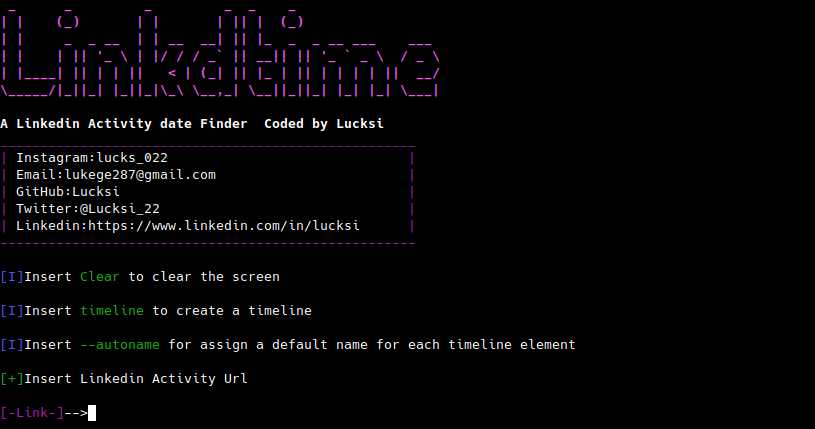
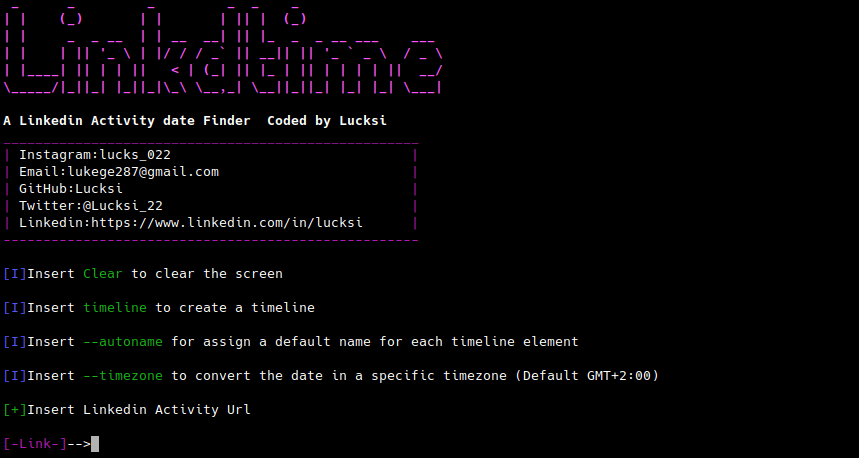
Added custom timezone option

diff --git a/Core/Modules/Timeline.py b/Core/Modules/Timeline.py
@@ -23,10 +23,10 @@ class CREATE:
         f.close()
 
     @staticmethod
-    def Write_Timeline(users,conversion,ordinated,types,titles,reader,timel_name,fixed_earliest,fixed_latest):
+    def Write_Timeline(users,conversion,ordinated,types,titles,reader,timel_name,fixed_earliest,fixed_latest,timezone):
         j = 1
         f = open(timel_name,"a")
-        f.write("Earliest Event: {} GMT+2 Latest Event: {} GMT+2\n\n".format(str(fixed_earliest),str(fixed_latest)))
+        f.write("Earliest Event: {} {} Latest Event: {} {}\n\n".format(str(fixed_earliest),timezone,str(fixed_latest),timezone))
         for element in ordinated:
             f.write("Number° {}\r\n".format(str(j)))
             orig_index = conversion.index(element)
@@ -35,16 +35,16 @@ class CREATE:
                 f.write("Author: {}\r\n".format(users[orig_index]))
             f.write("Type: {}\r\n".format(types[orig_index]))
             if types[orig_index] == "Profile-Picture" or type[orig_index] == "Company-Logo":
-                f.write("Added on date: {} GMT+2\r\n".format(element))
+                f.write("Added on date: {} {}\r\n".format(element,timezone))
             else:
-                f.write("Posted on date: {} GMT+2\r\n".format(element))
+                f.write("Posted on date: {} {}\r\n".format(element,timezone))
             f.write("Url: {}\r\n\n".format(reader[orig_index].lstrip().rstrip()))
             j = j + 1
         f.close()
         print(Colors.Color.GREEN + "[+]" + Colors.Color.WHITE + "Timeline Saved on: {}".format(Colors.Color.GREEN + str(timel_name)))
     
     @staticmethod
-    def Timeline(path,timel_name,auto):
+    def Timeline(path,timel_name,auto,timezone):
         timel_name = "Timelines/{}".format(timel_name)
         CREATE.Create_Timeline(timel_name)
         users = []
@@ -69,7 +69,7 @@ class CREATE:
                     title = "Element n°{}".format(t_i)
                     t_i = t_i + 1
                 titles.append(title)
-                Start.MAIN.Scan(element,"True",users,conversion,types)
+                Start.MAIN.Scan(element,"True",users,conversion,types,timezone)
                 sleep(1)
             fixed_earliest = min(conversion)
             fixed_latest = max(conversion)
@@ -80,7 +80,7 @@ class CREATE:
                 temp.remove(earliest)
             print(Colors.Color.BLUE + "\n[I]" + Colors.Color.WHITE + "Creating Timeline\n")
             sleep(2)
-            print(Colors.Color.GREEN + "[+]" + Colors.Color.WHITE + "Earliest Event: {} Latest Event: {} GMT+2\n".format(Colors.Color.GREEN + str(fixed_earliest) + " GMT+2" + Colors.Color.WHITE,Colors.Color.GREEN + str(fixed_latest)))
+            print(Colors.Color.GREEN + "[+]" + Colors.Color.WHITE + "Earliest Event: {} {}  Latest Event: {} {}\n".format(Colors.Color.GREEN + str(fixed_earliest), Colors.Color.WHITE + timezone + Colors.Color.WHITE,Colors.Color.GREEN + str(fixed_latest),Colors.Color.WHITE + timezone))
             j = 1
             for element in ordinated:
                 print(Colors.Color.BLUE + "[I]" + Colors.Color.WHITE + "Number° {}".format(Colors.Color.GREEN + str(j)))
@@ -90,11 +90,11 @@ class CREATE:
                     print(Colors.Color.GREEN + "[+]" + Colors.Color.WHITE + "Author: {}".format(Colors.Color.GREEN + users[orig_index]))
                 print(Colors.Color.GREEN + "[+]" + Colors.Color.WHITE +  "Type: {}".format(Colors.Color.GREEN + types[orig_index]))
                 if types[orig_index] == "Profile-Picture" or type[orig_index] == "Company-Logo":
-                    print(Colors.Color.GREEN + "[+]" + Colors.Color.WHITE + "Added on date: {} GMT+2".format(Colors.Color.GREEN + element))
+                    print(Colors.Color.GREEN + "[+]" + Colors.Color.WHITE + "Added on date: {} {}".format(Colors.Color.GREEN + element + Colors.Color.WHITE,timezone))
                 else:
-                    print(Colors.Color.GREEN + "[+]" + Colors.Color.WHITE + "Posted on date: {} GMT+2".format(Colors.Color.GREEN + element))
+                    print(Colors.Color.GREEN + "[+]" + Colors.Color.WHITE + "Posted on date: {} {}".format(Colors.Color.GREEN + element + Colors.Color.WHITE,timezone))
                 print(Colors.Color.GREEN + "[+]" + Colors.Color.WHITE + "Url: {}\n".format(Colors.Color.GREEN + reader[orig_index].lstrip().rstrip()))
                 j = j + 1
-            CREATE.Write_Timeline(users,conversion,ordinated,types,titles,reader,timel_name,fixed_earliest,fixed_latest)
+            CREATE.Write_Timeline(users,conversion,ordinated,types,titles,reader,timel_name,fixed_earliest,fixed_latest,timezone)
         else:
             print(Colors.Color.RED + "[!]" + Colors.Color.WHITE + "File: {} not found".format(Colors.Color.GREEN + path + Colors.Color.WHITE)) 

diff --git a/Core/Start.py b/Core/Start.py
@@ -14,7 +14,7 @@ from Core.Utils import Banner
 class MAIN:
 
     @staticmethod
-    def Scan(string,timeline,users,conversions,types):
+    def Scan(string,timeline,users,conversions,types,timezone):
         if string.startswith("https://www.linkedin.com") == False and string.startswith("https://media.licdn.com") == False:
             print(Colors.Color.RED + "\n[!]" + Colors.Color.WHITE + "Please insert a Linkedin link")
             MAIN.String(2)
@@ -44,17 +44,17 @@ class MAIN:
             try:
                 if param != "Image" and param != "Profile-Picture" and param != "Company-Logo":
                     formatted = Decimal.GET.Formatted(binary_string)
-                converted = Timestamp.GET.Date(formatted)
+                converted = Timestamp.GET.Date(formatted,timezone)
                 if timeline == "True":
                     users.append(user)
                     conversions.append(converted)
                     types.append(param)
                 if user != "" and param != "Image" and param != "Profile-Picture" and param != "Company-Logo":
-                    print(Colors.Color.PURPLE2 + "\n[v]" + Colors.Color.WHITE + "Linkedin {} Author: {} Posted on date: {} GMT+2".format(param,Colors.Color.GREEN + user + Colors.Color.WHITE,Colors.Color.GREEN + converted))
+                    print(Colors.Color.PURPLE2 + "\n[v]" + Colors.Color.WHITE + "Linkedin {} Author: {} Posted on date: {} {}".format(param,Colors.Color.GREEN + user + Colors.Color.WHITE,Colors.Color.GREEN + converted + Colors.Color.WHITE,timezone))
                 elif param == "Profile-Picture" or param == "Company-Logo":
-                    print(Colors.Color.PURPLE2 + "\n[v]" + Colors.Color.WHITE + "Linkedin {} Added on date: {} GMT+2".format(param,Colors.Color.GREEN + converted))
+                    print(Colors.Color.PURPLE2 + "\n[v]" + Colors.Color.WHITE + "Linkedin {} Added on date: {} {}".format(param,Colors.Color.GREEN + converted + Colors.Color.WHITE,timezone))
                 else:
-                    print(Colors.Color.PURPLE2 + "\n[v]" + Colors.Color.WHITE + "Linkedin {} Posted on date: {} GMT+2".format(param,Colors.Color.GREEN + converted))
+                    print(Colors.Color.PURPLE2 + "\n[v]" + Colors.Color.WHITE + "Linkedin {} Posted on date: {} {}".format(param,Colors.Color.GREEN + converted + Colors.Color.WHITE,timezone))
             except Exception as e:
                 print("\nSomething Went Wrong: " + str(e))
     
@@ -72,6 +72,12 @@ class MAIN:
                         auto = 1
                     else:
                         auto = 0
+                    if "--timezone" in string or "--timezone" in string:
+                        timezone_n = string.split("--timezone",1)[1].split(" ",1)[1].split(" ",1)[0]
+                        string = string.replace(" --timezone","--timezone").replace("--timezone","")
+                        string = string.replace("{}".format(timezone_n),"")
+                    else:
+                        timezone_n = "GMT+2:00"
                     if "timeline" in string or " timeline" in string:
                         timel_name = str(input(Colors.Color.GREEN + "\n[+]" + Colors.Color.WHITE + "Insert Timeline name" + "\n\n" + Colors.Color.PURPLE2 + "[-Timeline-]" + Colors.Color.WHITE + "-->"))
                         while timel_name == "" or timel_name == "":
@@ -79,8 +85,8 @@ class MAIN:
                         string = string.replace(" timeline","timeline")
                         folder = string.split("timeline",1)[1].split(" ",1)[1].split(" ",1)[0]
                         timel_name = timel_name + ".txt"
-                        Timeline.CREATE.Timeline(folder,timel_name,auto)
+                        Timeline.CREATE.Timeline(folder,timel_name,auto,timezone_n)
                     else:
-                        MAIN.Scan(string,"None","","","")
+                        MAIN.Scan(string,"None","","","",timezone_n)
             except Exception as e:
                print("\nSomething went wrong: {}".format(str(e)))

diff --git a/Core/Modules/Timestamp.py b/Core/Modules/Timestamp.py
@@ -3,14 +3,26 @@
 # Copyright (C) 2025 Lucksi <lukege287@gmail.com>
 # License: GNU General Public License v3.0
 
-from datetime import datetime
+from datetime import datetime,timedelta
 
 class GET:
     
     @staticmethod
-    def Date(timestamp):
+    def Date(timestamp,timezone):
         timestamp = float(timestamp)
         timestamp = timestamp/1000
         intial = datetime.fromtimestamp(timestamp)
+        if timezone != "GMT+2:00":
+            zone = timezone.split("GMT",1)[1].replace("+","").replace("-","")
+            hours_t = zone.split(":",1)[0]
+            minute_t = zone.split(":",1)[1]
+            hours_t = int(hours_t)
+            if "+" in timezone:
+                hours_t = hours_t - 2
+            zone = timedelta(hours=hours_t,minutes=int(minute_t))
+            if "+" in timezone:
+                intial = intial + zone
+            elif "-" in timezone:
+                intial = intial - zone
         formatted = intial.strftime("%Y-%m-%d %H:%M:%S")
         return formatted

diff --git a/Core/Utils/Banner.py b/Core/Utils/Banner.py
@@ -35,3 +35,4 @@ class GET_BANNER:
             print(Colors.Color.BLUE + "\n[I]" + Colors.Color.WHITE + "Insert {} to clear the screen".format(Colors.Color.GREEN + "Clear" + Colors.Color.WHITE))
             print(Colors.Color.BLUE + "\n[I]" + Colors.Color.WHITE + "Insert {} to create a timeline".format(Colors.Color.GREEN + "timeline" + Colors.Color.WHITE))
             print(Colors.Color.BLUE + "\n[I]" + Colors.Color.WHITE + "Insert {} for assign a default name for each timeline element".format(Colors.Color.GREEN + "--autoname" + Colors.Color.WHITE))
+            print(Colors.Color.BLUE + "\n[I]" + Colors.Color.WHITE + "Insert {} to convert the date in a specific timezone (Default GMT+2:00)".format(Colors.Color.GREEN + "--timezone" + Colors.Color.WHITE))

diff --git a/Readme.md b/Readme.md
@@ -35,7 +35,7 @@ python3 main.py
 | Windows | ❌ |
 
 
-## Recognized Activities:
+## Supported Activities:
 | Name
 | -------------
 | `Posts` 
@@ -52,6 +52,7 @@ python3 main.py
 | ------------- | ------------- | -------------|
 | `timeline`  | Create a timeline from a group of activities| timeline test.txt |
 | `--autoname`  | Generate a default name for each element in the timeline | timeline test.txt --autoname |
+| `--timezone`  | Set a Timezone for the the results (works with timelines and standalone links) (default GMT+2:OO) | timeline test.txt --timezone |
 
 ## Autoname Default element name example:
 ```bash
